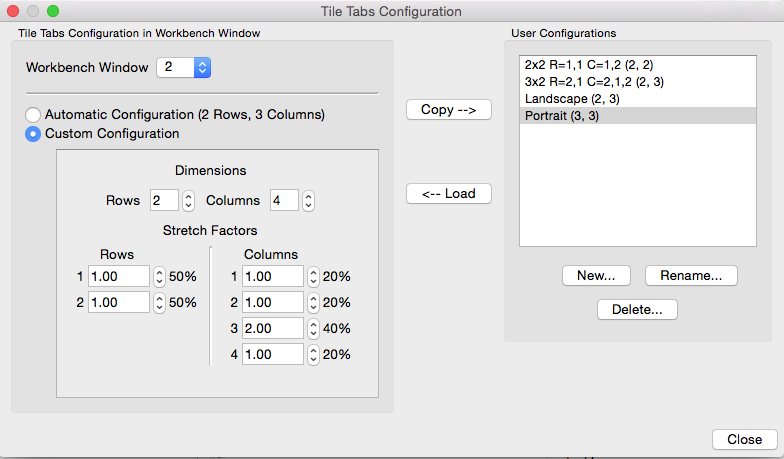
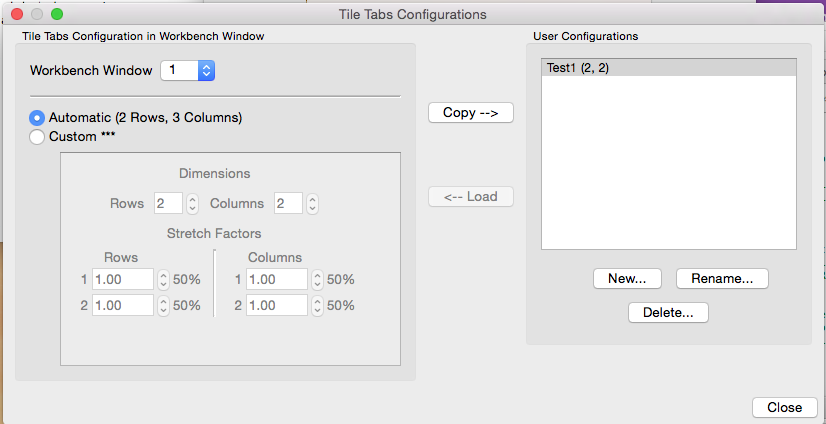
WB-735 Tile Tabs Configuration: For custom configuration, add '***' when number of tabs in window exceeds number of tabs in custom configuration.  Update Help Information with changes for Tile Tabs GUI.

diff --git a/src/Resources/Help/HelpFiles/Menus/View_Menu/View_Menu.html b/src/Resources/Help/HelpFiles/Menus/View_Menu/View_Menu.html
@@ -15,11 +15,15 @@
 
 
 
+
+
             Window</b></u></a> (Toolbar, Toolboxes, Tabs):</font>
     <ul>
       <li> <font face="Calibri"><b>Toolbar</b> turns on/off the toolbar
           above the <a
             href="../../Workbench_Window/Viewing_Area/Viewing_Area.html"><u><b>Viewing
+
+
 
 
 
@@ -40,6 +44,8 @@
 
 
 
+
+
                 Toolbox</b></u></a>: Attach to Right/Detach/Hide.</font>
       </li>
     </ul>
@@ -53,14 +59,18 @@
 
 
 
+
+
                 Toolbox</b></u></a>: Attach to Bottom/Attach to
           Left/Detach/Hide.</font> </li>
     </ul>
     <ul>
-      <li> <font face="Calibri"><b>Enter Full Screen</b> expands the
-          Viewing Area to take up the entire screen. All Toolbars,
+      <li> <font face="Calibri"><b>Enter/Exit Full Screen</b> expands
+          the Viewing Area to take up the entire screen. All Toolbars,
           Toolboxes, etc. are hidden. The <i>Esc key</i> <b>exits Full
             Screen</b>. </font><font face="Calibri">The shortcut for <b>Enter
+
+
 
 
 
@@ -76,16 +86,20 @@
 
 
 
+
+
             + F</i>.</font> </li>
     </ul>
     <ul>
-      <li> <font face="Calibri"><b>Enter Tile Tabs</b> switches the
-          Viewing Area from displaying one Viewing Tab at a time to a
-          configuration that can display multiple Viewing Tabs at once.
-          Viewing Tabs are shown in Tile Tabs left to right, and in one
-          or more rows, in the order of their arrangement in normal
-          viewing configuration. See <a
+      <li> <font face="Calibri"><b>Enter/Extit Tile Tabs</b> switches
+          the Viewing Area from displaying one Viewing Tab at a time to
+          a configuration that can display multiple Viewing Tabs at
+          once. Viewing Tabs are shown in Tile Tabs left to right, and
+          in one or more rows, in the order of their arrangement in
+          normal viewing configuration. See <a
             href="../../Workbench_Window/Viewing_Tabs/Viewing_Tabs.html"><u><b>Viewing
+
+
 
 
 
@@ -102,18 +116,36 @@
             href="Gaps_And_Margins/Gaps_And_Margins.html"><u><b> Gaps
                 and Margins</b></u></a><b> &gt; </b>Enables adjustment
           of gaps in a surface or volume montage and margins around tab
-          regions. </font></li>
+          regions</font></li>
+      <li><font face="Calibri"><b>Enter/Exit Tile Tabs</b> switches the
+          Viewing Area from displaying one Viewing Tab at a time to a
+          configuration that can display multiple Viewing Tabs at once.
+          Viewing Tabs are shown in Tile Tabs left to right, and in one
+          or more rows, in the order of their arrangement in normal
+          viewing configuration. See <a
+href="file:///Volumes/myelin1/shared/WB_Tutorial/WB_1.3_Help/Workbench_Window/Viewing_Tabs/Viewing_Tabs.html"><u><b>Viewing
+
+
+
+
+
+
+
+
+                Tabs</b></u></a> to learn how to change the order of the
+          tabs. The <i>Esc key</i> <b>exits Tile Tabs</b>.&nbsp; </font><font
+          face="Calibri">The shortcut for <b>Enter Tile Tabs</b> is </font><font
+          face="Calibri"><i>Command/Ctrl + M</i>.</font></li>
+    </ul>
+    <ul>
     </ul>
     <ul>
       <li> <font face="Calibri"><a
-            href="Tile_Tabs_Configuration/Tile_Tabs_Configuration.html"><u><b>Tile
+            href="Tile_Tabs_Configuration/Tile_Tabs_Configuration.html"><u><b>Edit
+
+                Tile Tabs Configuration</b></u></a><b> &gt; </b>Automatic
 
 
-
-
-
-
-                Tabs Configuration</b></u></a><b> &gt; </b>Automatic
           and custom display configuration options for Tile Tabs
           viewing. The default is to display all of the Viewing Tabs
           open in that Workbench Window. Full details on these options
@@ -130,14 +162,33 @@
 
 
 
-                Tabs Configuration</b></u></a>.<br>
+
+
+                Tabs Configuration</b></u></a>.</font></li>
+      <li><font face="Calibri"><b>T</b><b>ile Tabs Configuration Mode</b>
+          &gt; Displays a menu for selection of Automatic or Custom
+          modes for tab layout when Tile Tabs is enabled.&nbsp;
+          Automatic creates a layout that displays all tabs in the
+          window.&nbsp; Custom selects a mode that allows the user to
+          setup the layout out the tabs in the window in rows and
+          columns in addition to "stretch factors" for special sizing of
+          the rows and/or columns.&nbsp;&nbsp;&nbsp; </font><font
+          face="Calibri"><font face="Calibri">"***" in the Custom item
+            indicates that the number of tabs in the window exceeds the
+            number of tabs displayed by the Custom Configuration.</font></font></li>
+      <li><font face="Calibri"><b>Load Custom With User Confi</b><b>g</b><b>uration</b>
+          &gt; A menu that lists all of the user's Tile Tabs
+          Configurations.&nbsp; If one is selected, the Tile Tabs
+          Configuration mode is set to Custom and selected User
+          Configuration is loaded into the Custom Configuration.<br>
         </font></li>
     </ul>
     <font face="Calibri"><br>
     </font>
     <ul>
     </ul>
-    <font face="Calibri"><img alt="" src="View_Menu.png"></font><br>
+    <font face="Calibri"><img alt="" src="View_Menu.png" width="347"
+        height="220"></font><br>
     <font face="Calibri"> </font>
   </body>
 </html>

diff --git a/src/Resources/Help/HelpFiles/Menus/View_Menu/Tile_Tabs_Configuration/Tile_Tabs_Configuration.html b/src/Resources/Help/HelpFiles/Menus/View_Menu/Tile_Tabs_Configuration/Tile_Tabs_Configuration.html
@@ -16,8 +16,12 @@
 
 
 
+
+
             Tabs</b></u></a> in the <a
         href="../../../Workbench_Window/Viewing_Area/Viewing_Area.html"><u><b>Viewing
+
+
 
 
 
@@ -53,7 +57,10 @@
           the number of rows and columns so that all tabs are displayed.</font></li>
       <li><font face="Calibri"><b>Custom Con</b><b>figuration</b> -
           Allows the user to set the number of rows/columns and their
-          stretch factors.</font></li>
+          stretch factors.&nbsp; "***" in the name indicates that the
+          number of tabs in the window exceeds the number of tabs
+          displayed by the Custom Configuration.<br>
+        </font></li>
       <li><font face="Calibri"><b>Dimensions (Rows / Columns)</b> -
           Number of Rows and Columns in the Custom Configuration</font></li>
       <li><font face="Calibri"><b>Stretch Factors</b> - The Stretch
@@ -91,8 +98,8 @@
     <blockquote>
       <ul>
       </ul>
-      <img alt="" src="Tile_Tabs_Configuration.png" width="784"
-        height="459"><br>
+      <img alt="" src="Tile_Tabs_Configuration.png" width="826"
+        height="424"><br>
       <br>
     </blockquote>
     <br>

diff --git a/src/GuiQt/BrainBrowserWindow.h b/src/GuiQt/BrainBrowserWindow.h
@@ -32,6 +32,7 @@
 #include "DataFileTypeEnum.h"
 #include "EventListenerInterface.h"
 #include "SceneableInterface.h"
+#include "TileTabsConfigurationModeEnum.h"
 
 class QAction;
 class QActionGroup;
@@ -148,7 +149,8 @@ namespace caret {
         
         bool isOpenGLContextSharingValid() const;
 
-        AString getTileTabsAutomaticConfigurationLabel(const bool includeRowsAndColumns) const;
+        AString getTileTabsConfigurationLabelText(const TileTabsConfigurationModeEnum::Enum configurationMode,
+                                              const bool includeRowsAndColumns) const;
 
         void resizeDockWidgets(const QList<QDockWidget *> &docks, const QList<int> &sizes, Qt::Orientation orientation);
         
